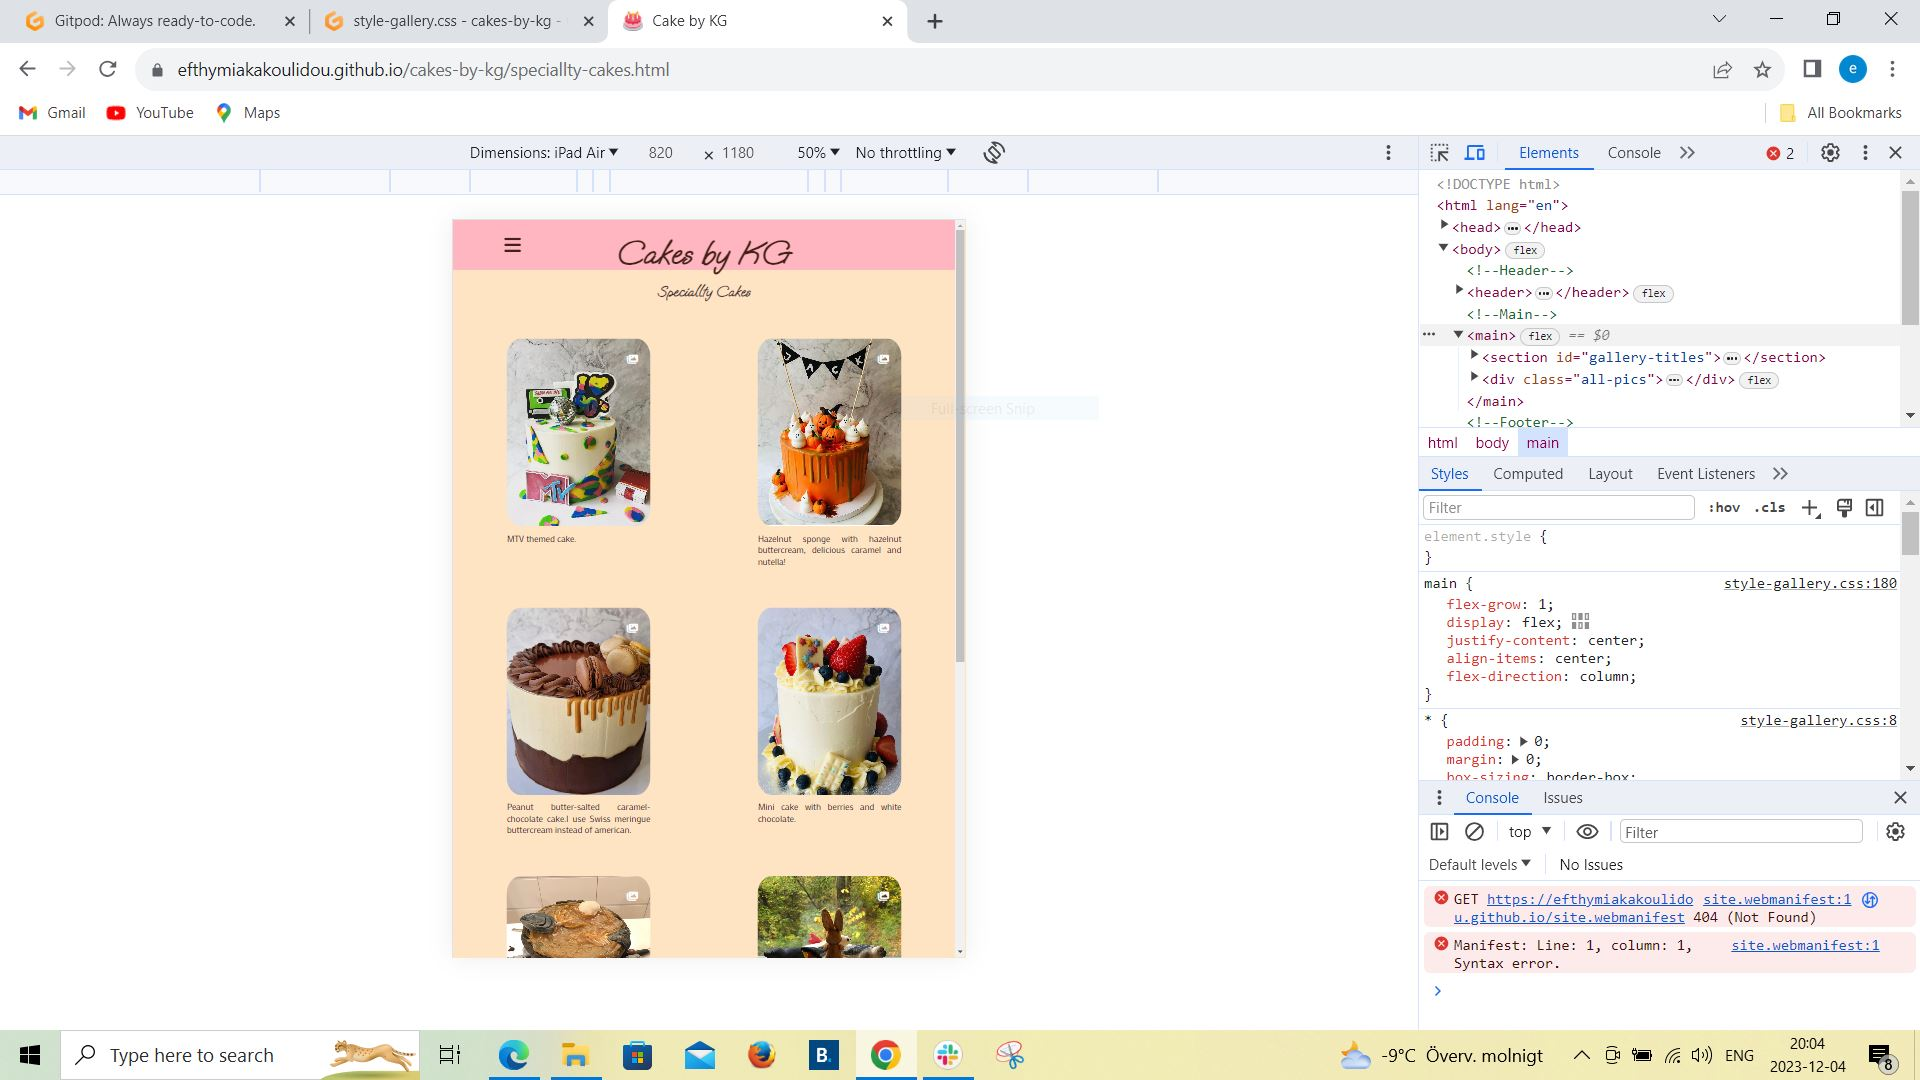
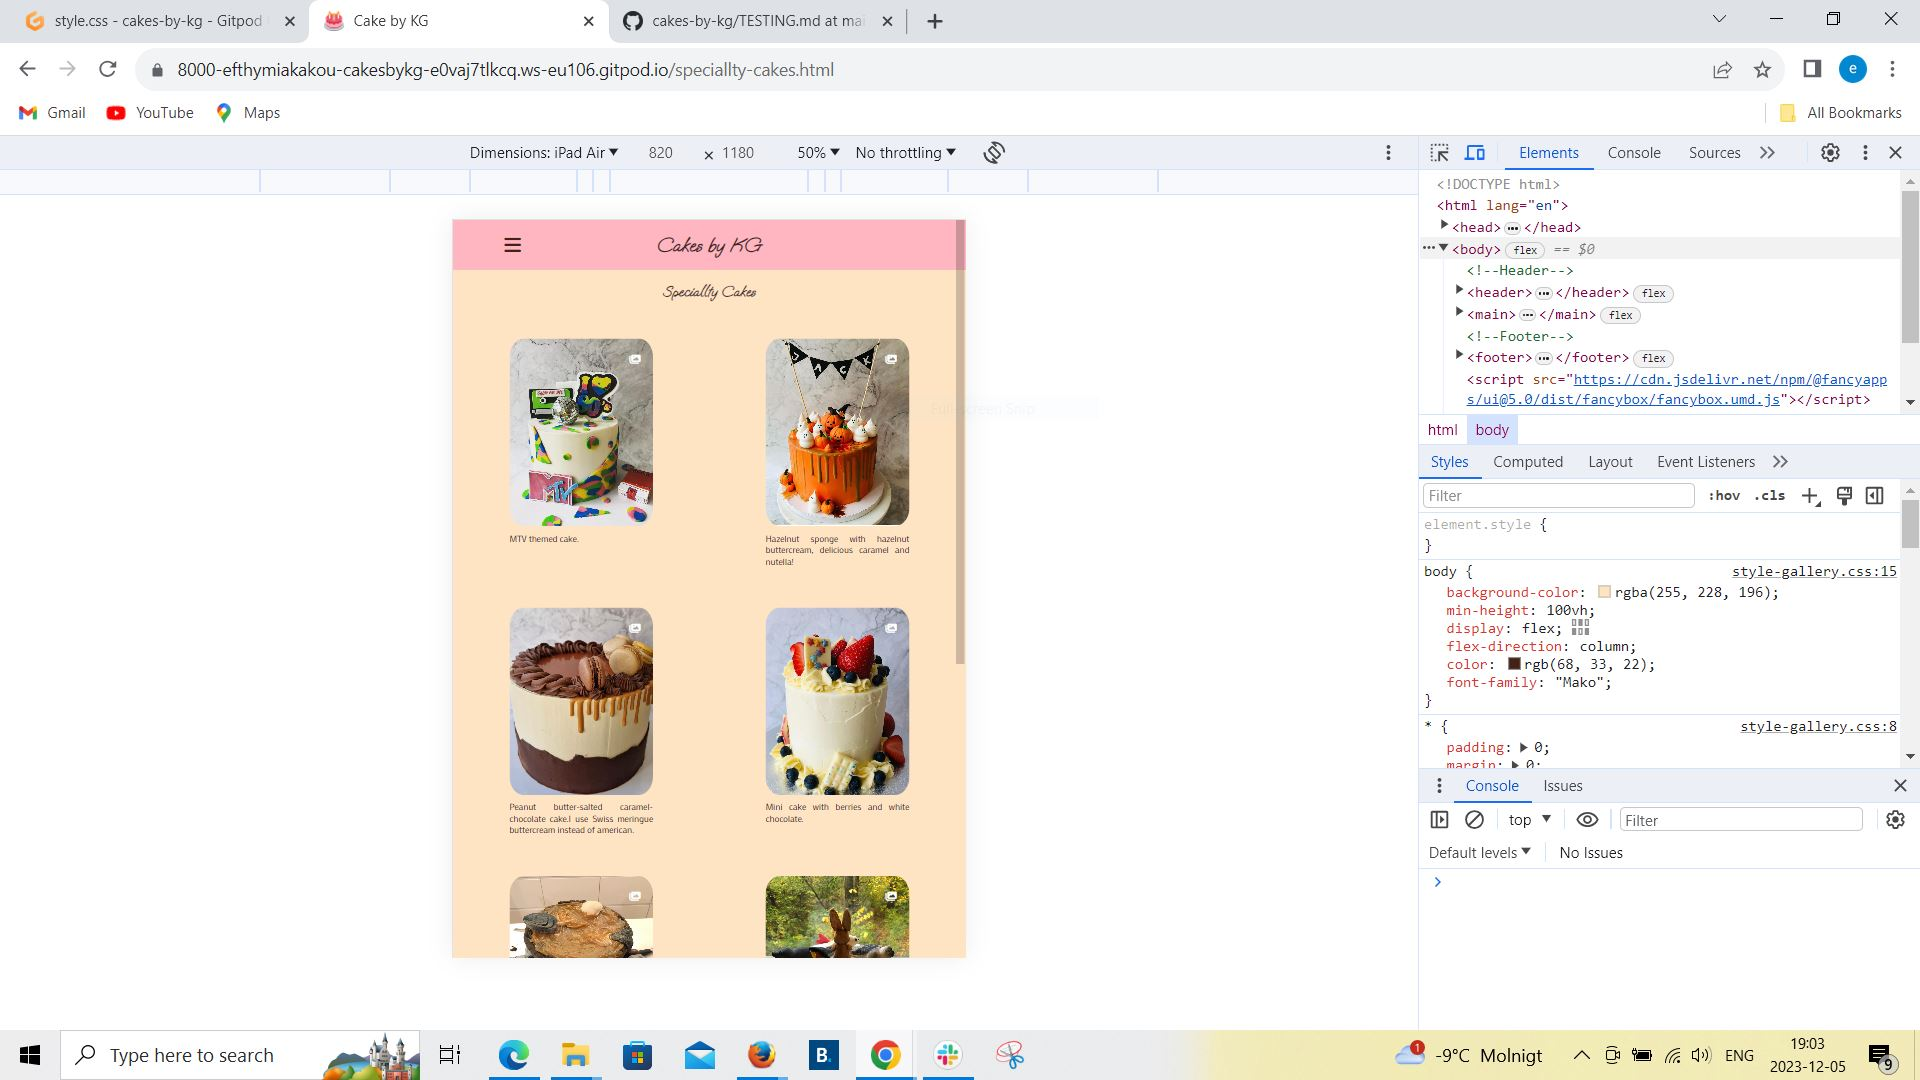
Update testing

diff --git a/speciallty-cakes.html b/speciallty-cakes.html
@@ -13,7 +13,6 @@
     <link rel="apple-touch-icon" sizes="180x180" href="assets/apple-touch-icon.png">
     <link rel="icon" type="image/png" sizes="32x32" href="assets/favicon-32x32.png">
     <link rel="icon" type="image/png" sizes="16x16" href="assets/favicon/favicon-16x16.png">
-    <link rel="manifest" href="/site.webmanifest">
     <!--Stylesheet-->
     <link rel="stylesheet" href="assets/css/style-gallery.css">
     <!--Fontawesome-->
@@ -35,7 +34,7 @@
         <!--Logo Name-->
         <div id="logo">
             <a href="index.html" style="text-decoration:none">
-                <h2>Cakes by KG</h2>
+                <h1>Cakes by KG</h1>
             </a>
         </div>
         <!--Navigation-->
@@ -62,7 +61,7 @@
         </div>
 
     </header>
-    <!--Main-->
+    
     <main>
         <section id="gallery-titles">
             <h2>Speciallty Cakes</h2>

diff --git a/assets/css/style-gallery.css b/assets/css/style-gallery.css
@@ -290,7 +290,8 @@ footer {
 
 }
 
-/*Media queries tablets and larger (768px and larger)*/
+
+/*Media queries tablets and larger (1024px and larger)*/
 
 @media screen and (min-width:1024px) {
 

diff --git a/TESTING.md b/TESTING.md
@@ -66,7 +66,7 @@ I've tested my deployed project using the Lighthouse Audit tool to check for any
 
 ## Manual Testing
 
-The owner of the site tested it on her iPhone 8 and provided screenshots and I tested it on a Samsung tablet.
+The owner of the site tested it on her iPhone 8 and provided screenshots.
 
 | Page | iPhone | Samsung tablet | Notes |
 | --- | --- | --- | --- |
